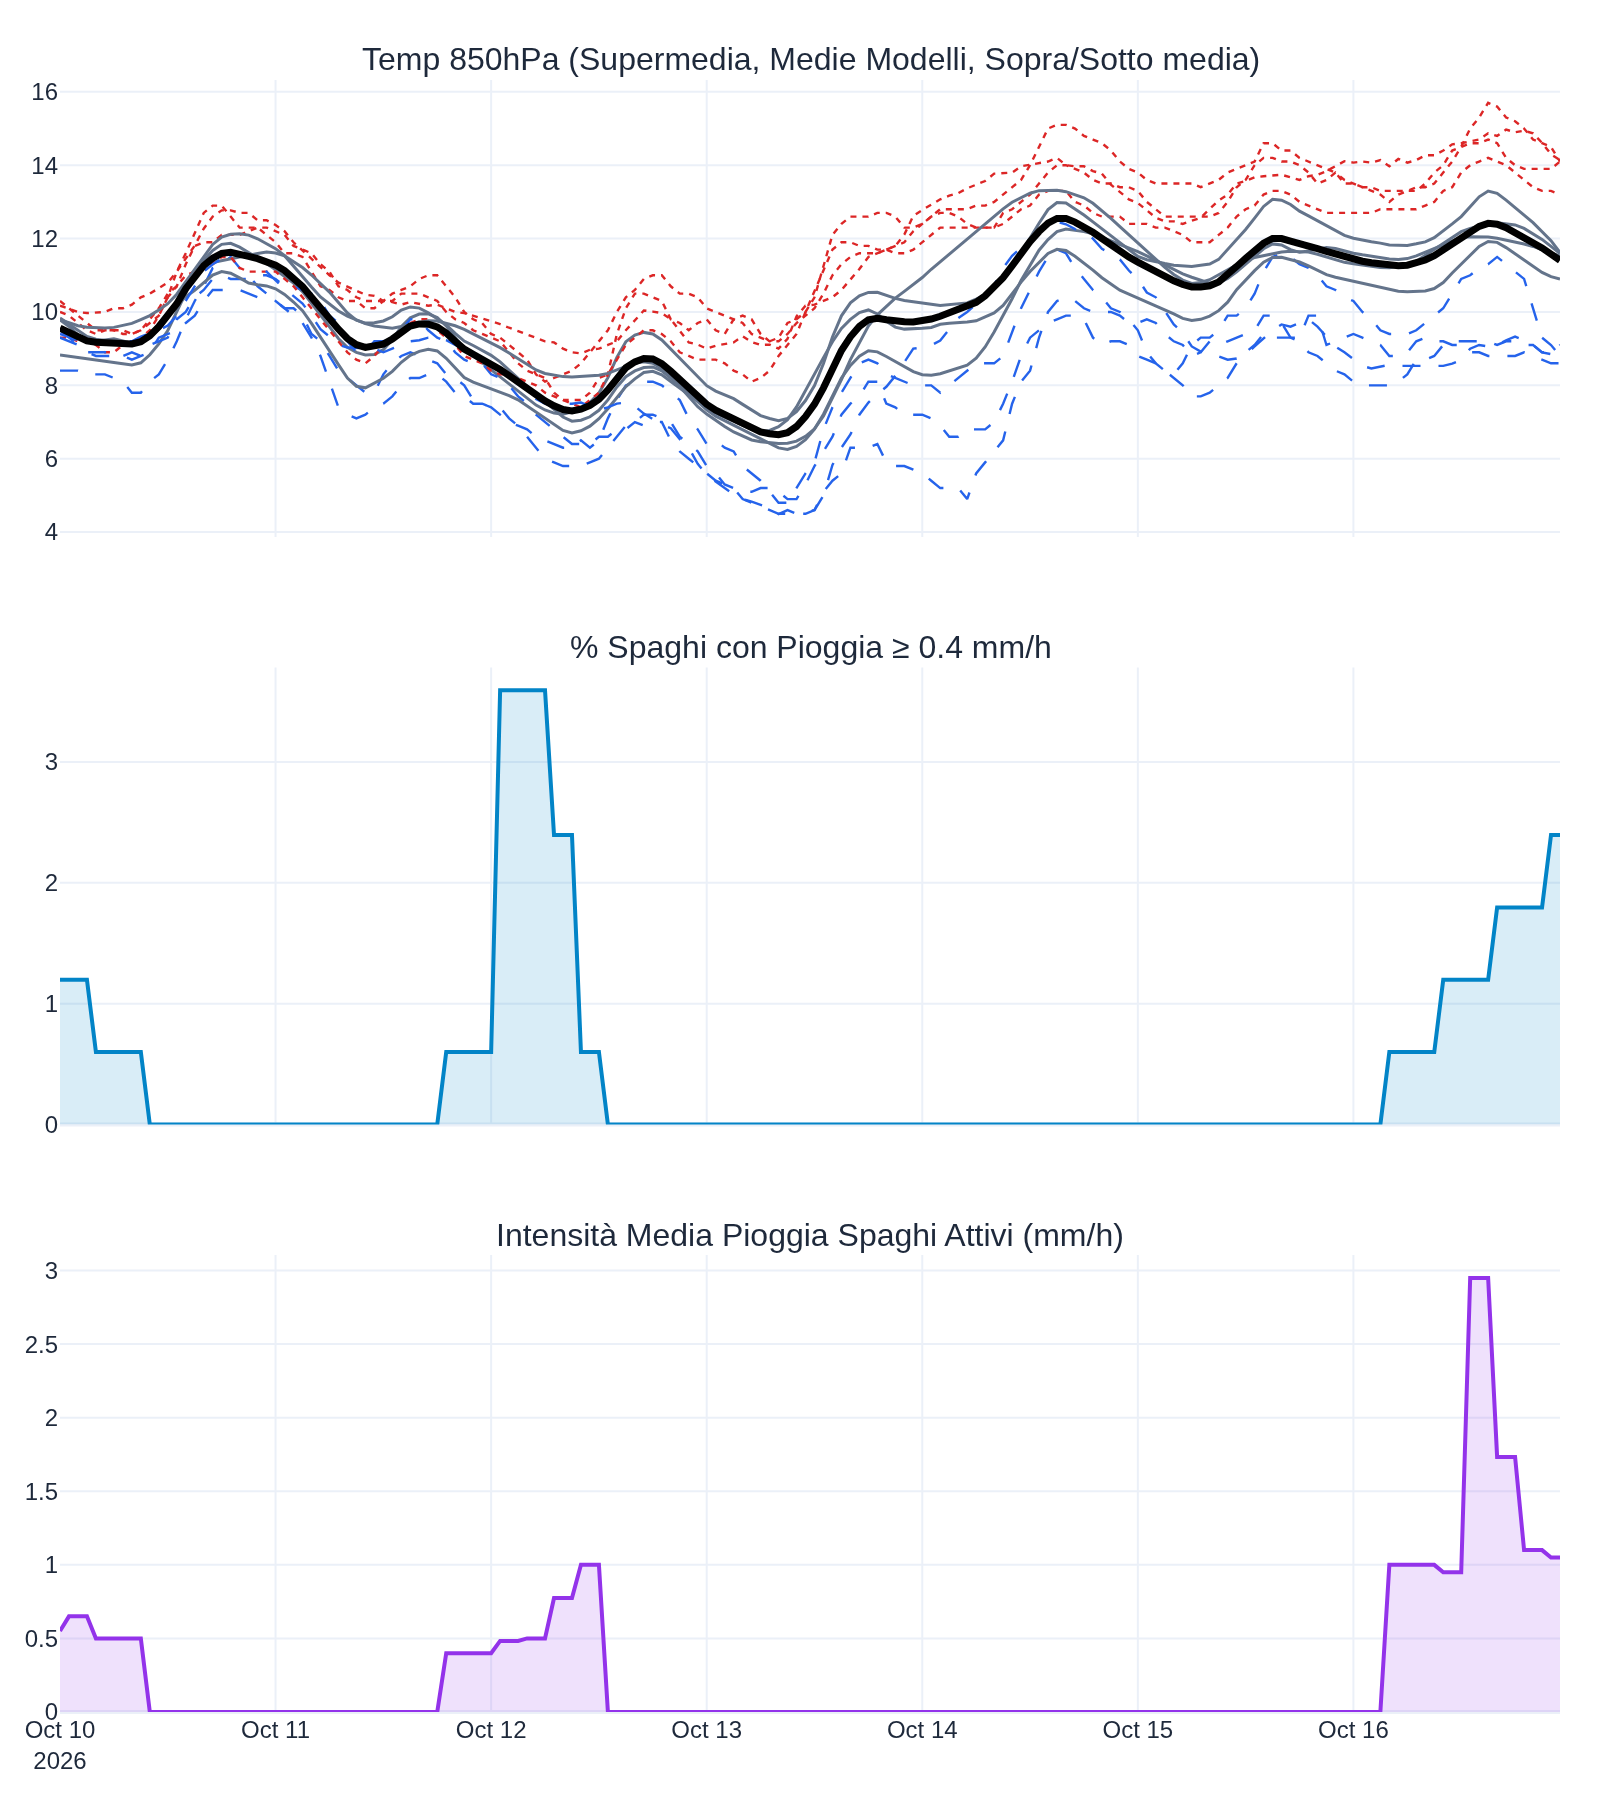
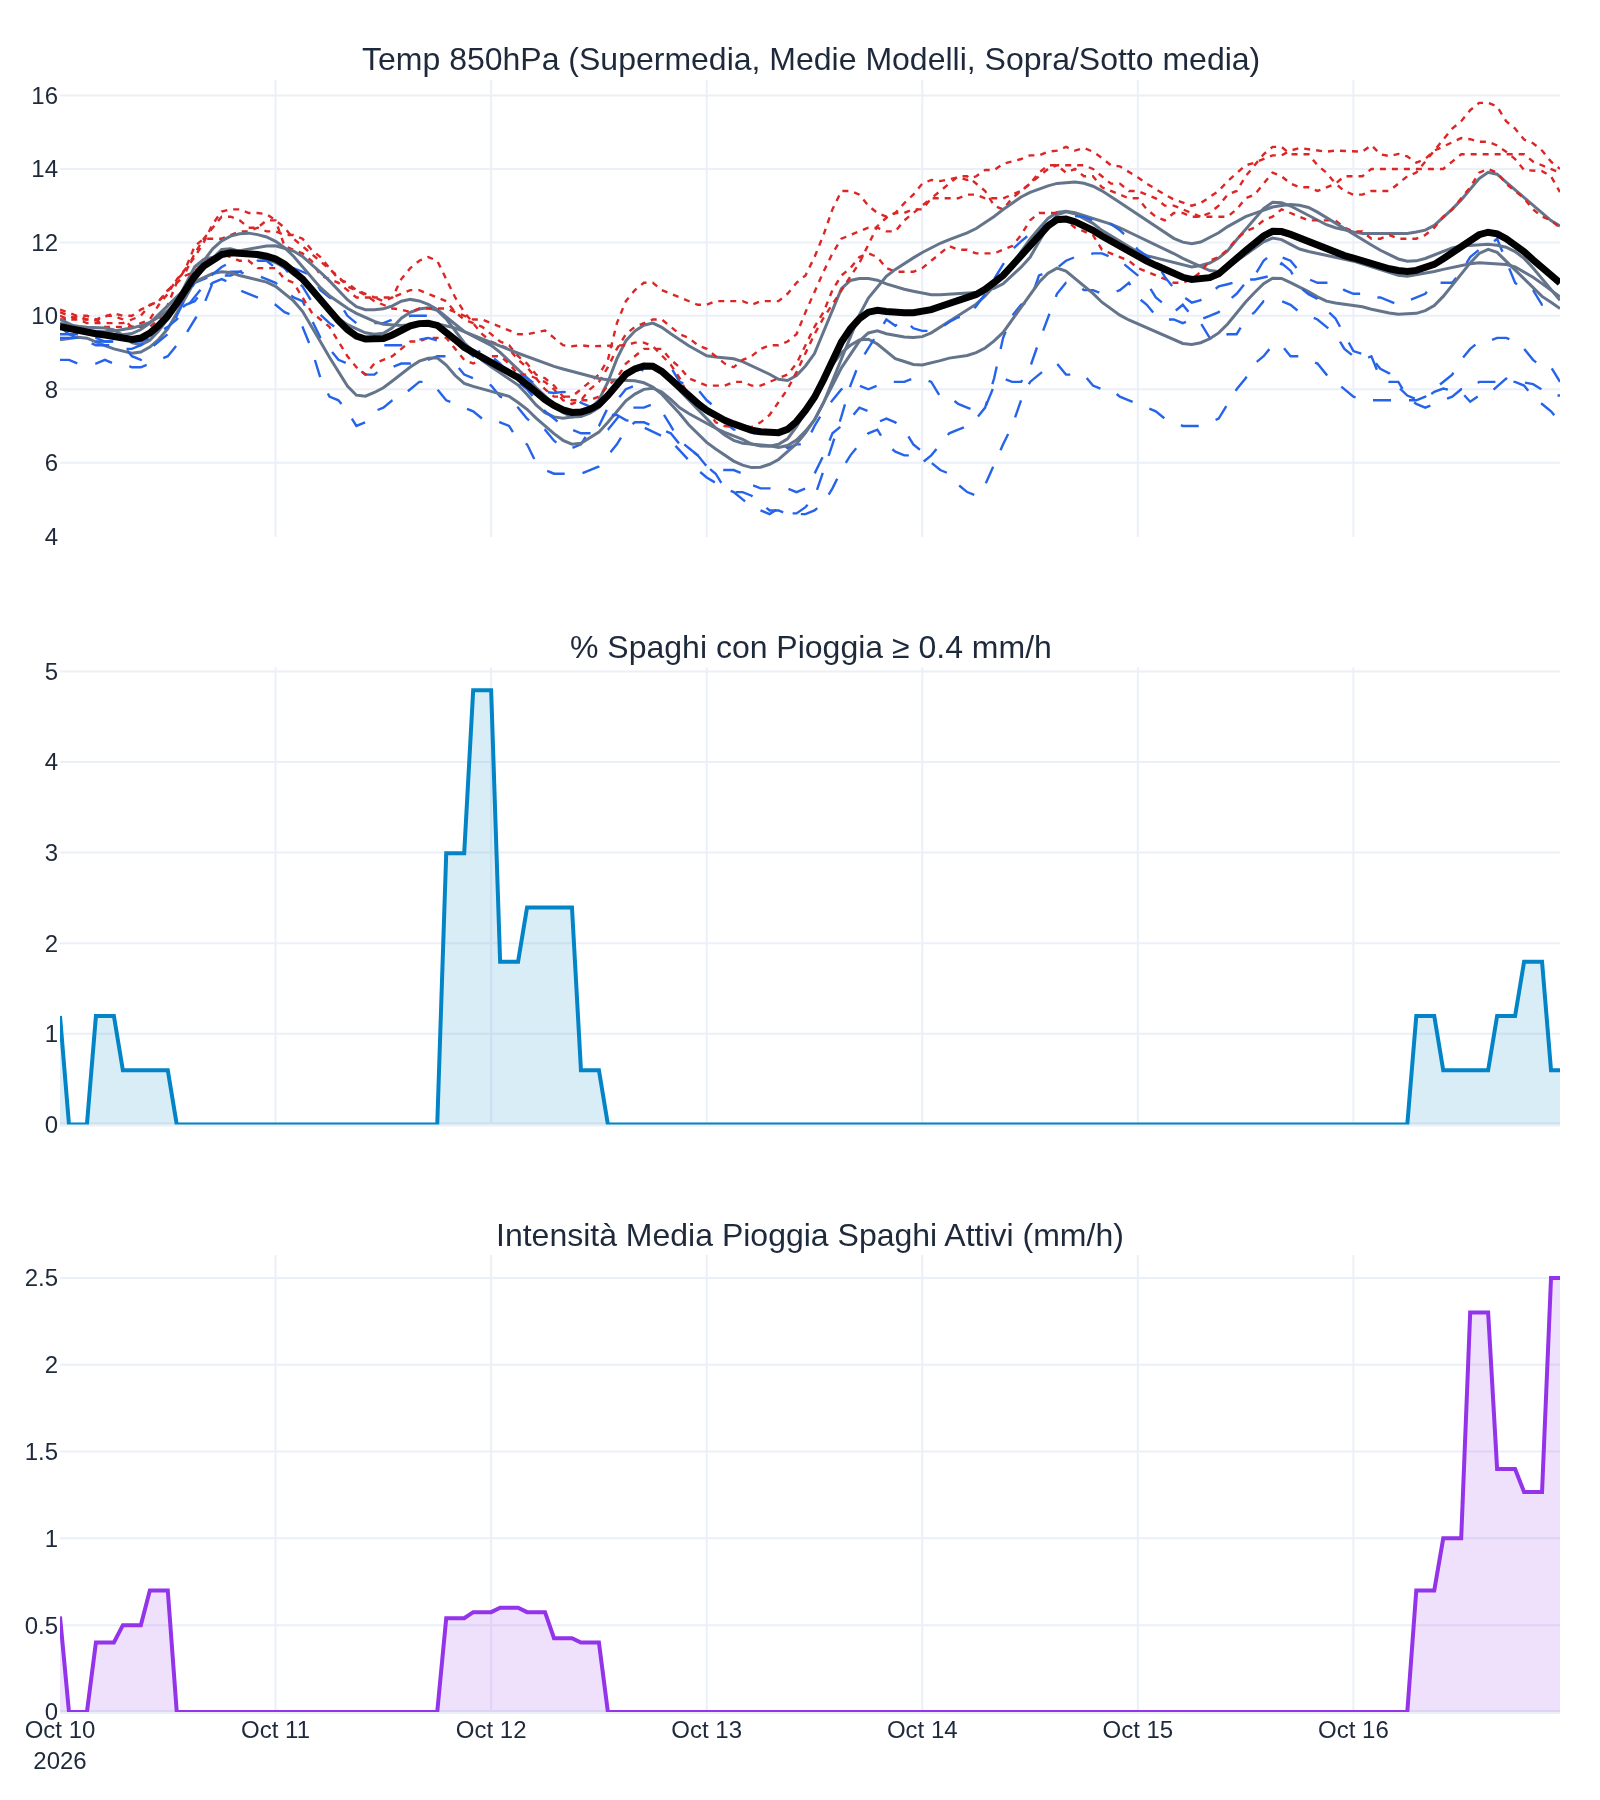
deploy: 1dc0a12943804f5ece3b06480eea32b7b3374c03

diff --git a/index.html b/index.html
@@ -73,23 +73,23 @@
             <div class="card-title">Temperatura 24h</div>
             <div class="card-main-val">16.7°C</div>
             <div class="temp-sub">
-                <span class="temp-max">Max: 20.6°C</span>
-                <span class="temp-min">Min: 14.1°C</span>
+                <span class="temp-max">Max: 20.5°C</span>
+                <span class="temp-min">Min: 14.2°C</span>
             </div>
         </div>
         <div class="card">
             <div class="card-title">Rischio Pioggia 24h</div>
-            <div class="card-main-val" style="color: #0284c7;">0%</div>
+            <div class="card-main-val" style="color: #0284c7;">33%</div>
             <div class="card-subtext">Modelli LAM ≥ 0.4 mm/h</div>
         </div>
         <div class="card">
             <div class="card-title">Accumulo Totale 24h</div>
-            <div class="card-main-val" style="color: #9333ea;">0.0 <span style="font-size: 0.9rem;">mm</span></div>
-            <div class="card-subtext">Finestra: <b>Nessuna precipitazione</b></div>
+            <div class="card-main-val" style="color: #9333ea;">0.2 <span style="font-size: 0.9rem;">mm</span></div>
+            <div class="card-subtext">Finestra: <b>12:00 - 12:00</b></div>
         </div>
         <div class="card">
             <div class="card-title">Indice Turboloso</div>
-            <div class="card-main-val" style="color: #16a34a;">0.0</div>
+            <div class="card-main-val" style="color: #16a34a;">0.2</div>
             <div class="card-subtext">Stato: <b style="color: #16a34a;">Livello 0 (Verde)</b></div>
         </div>
     </div>
